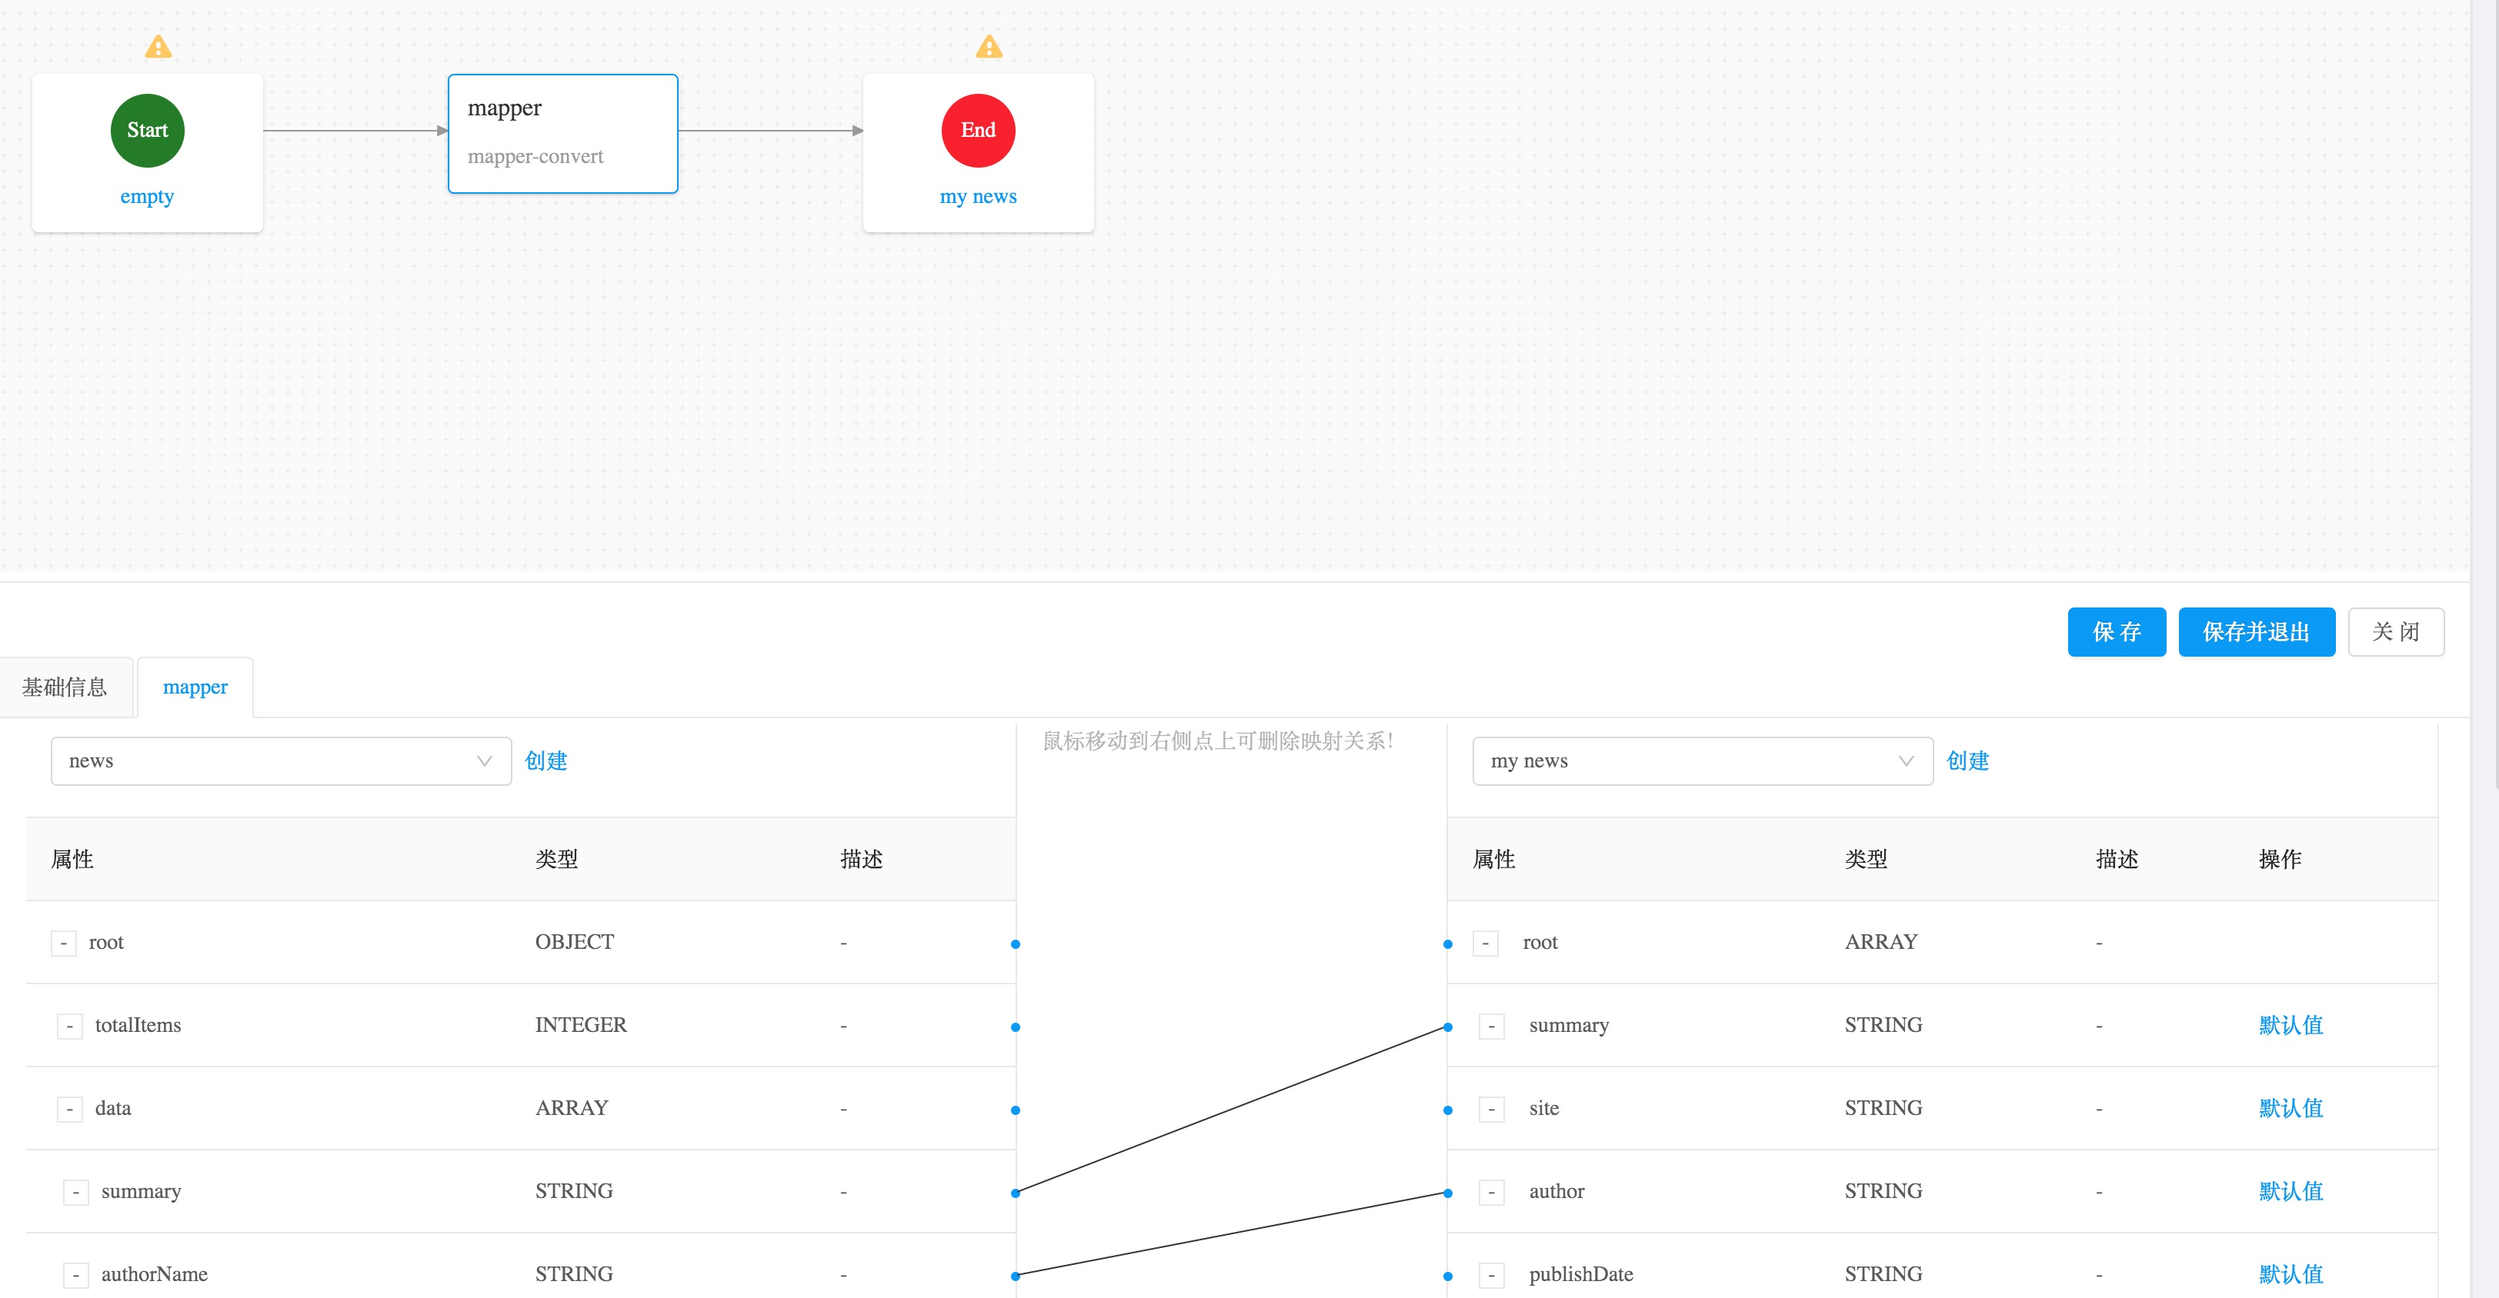
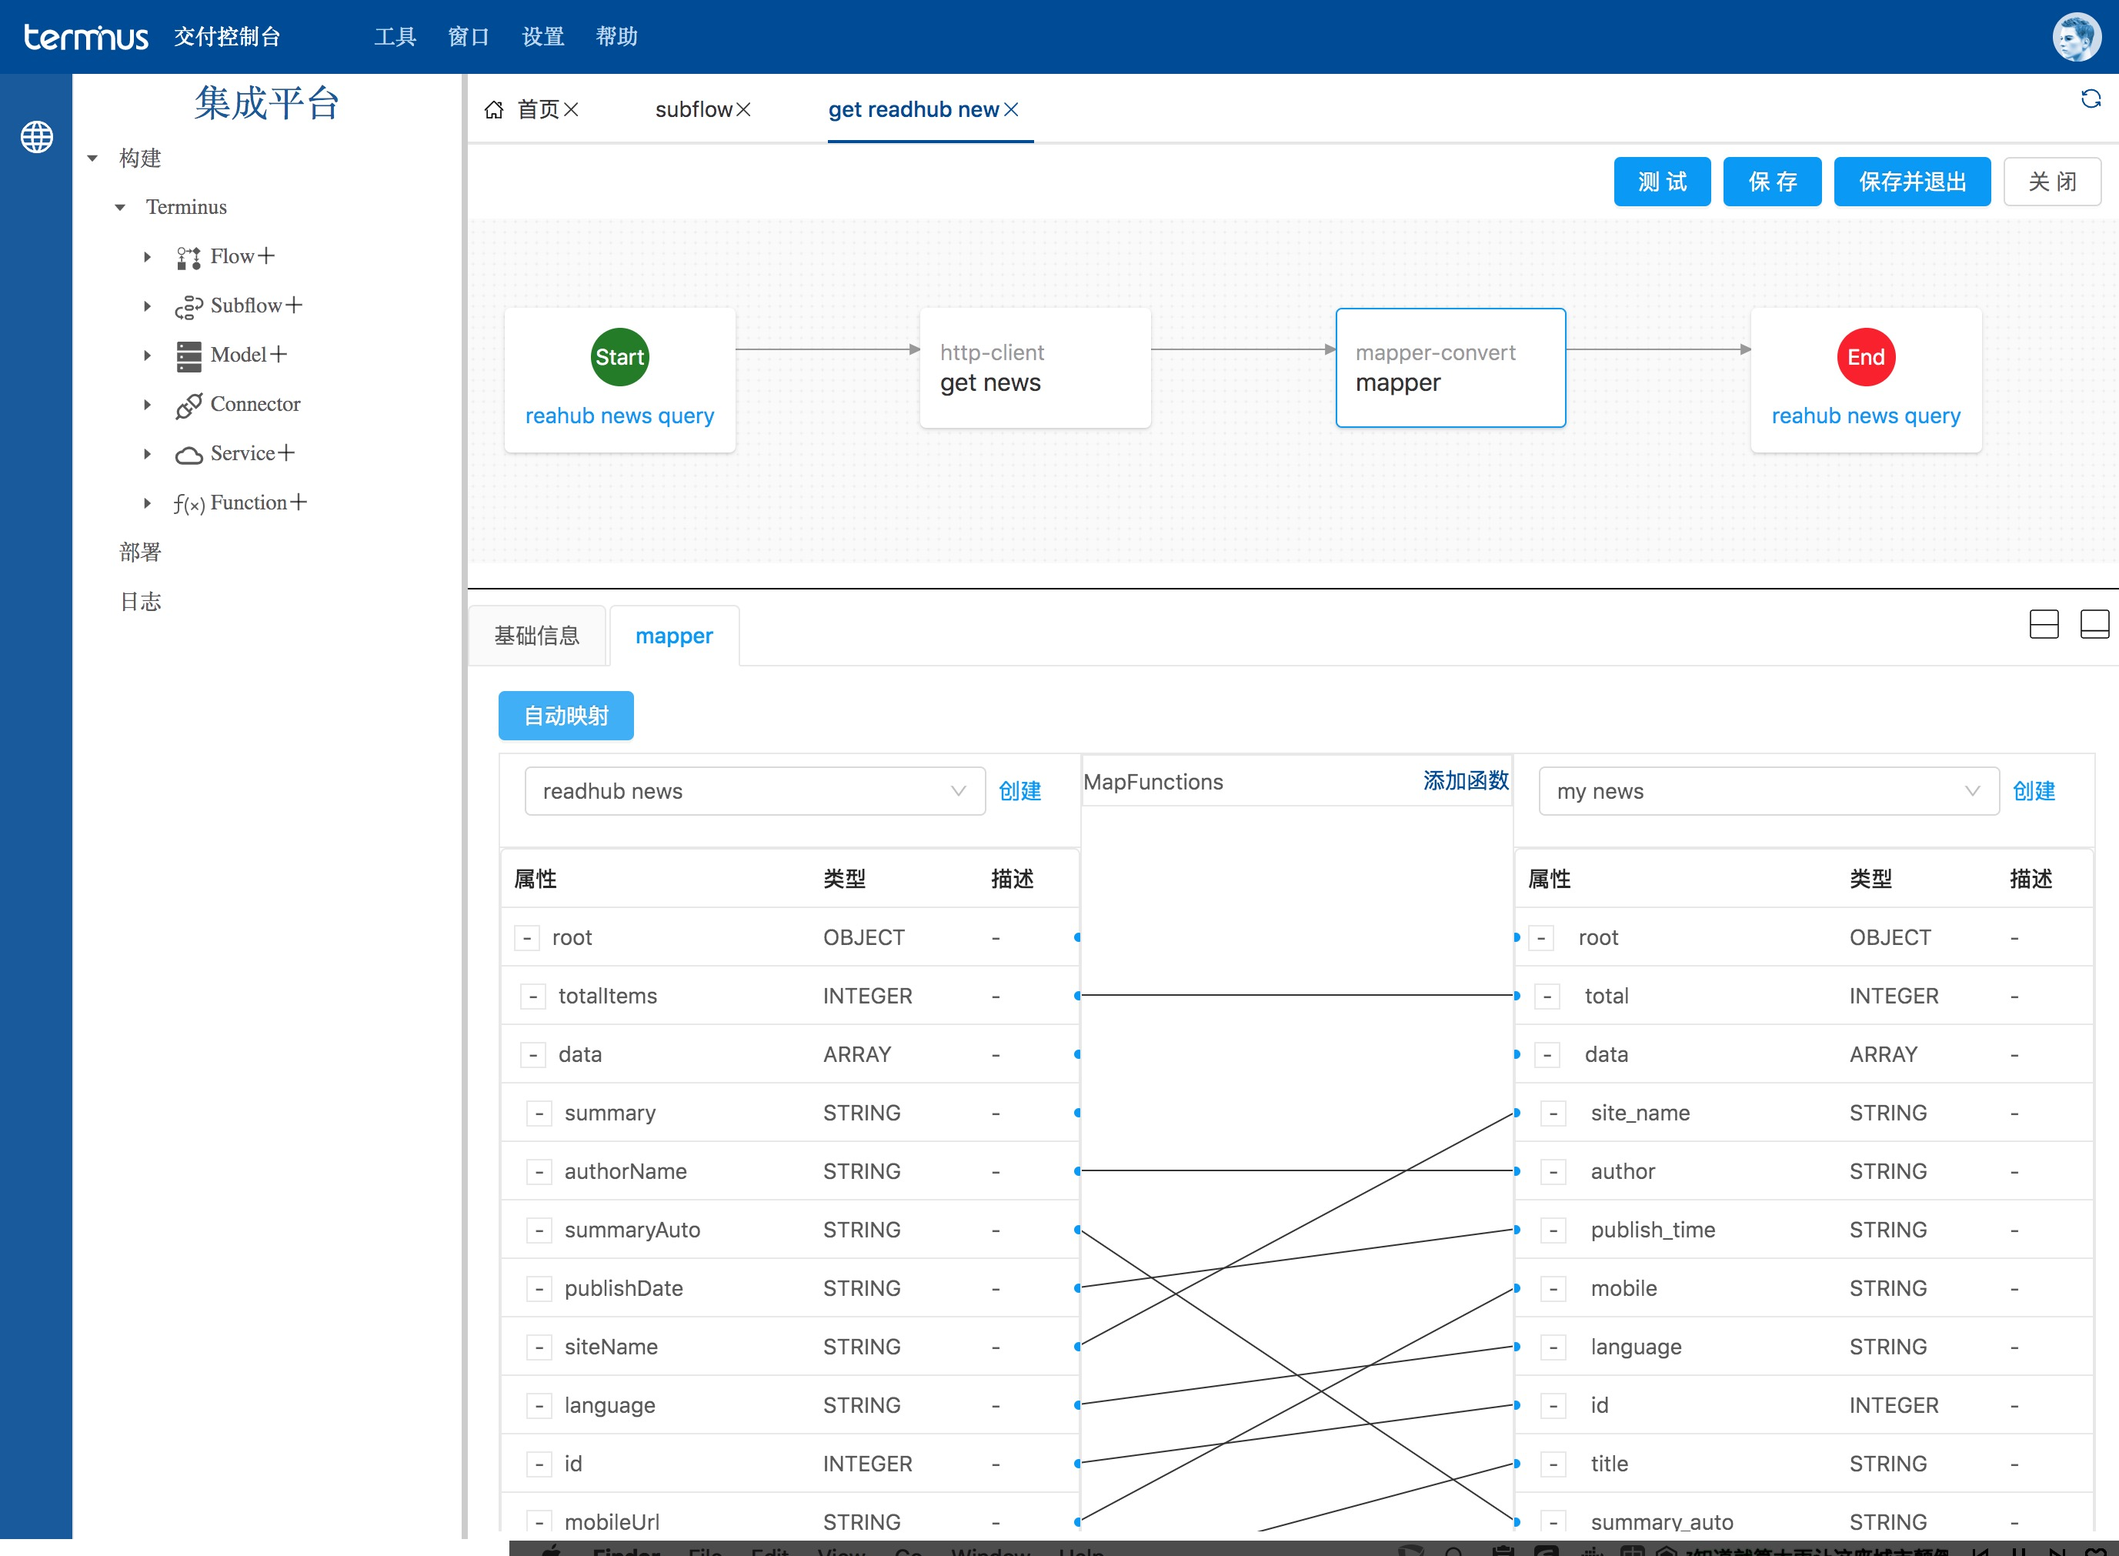
update docs & add validate

diff --git a/console/src/main/java/io/terminus/dalaran/console/TestFlowInitializer.java b/console/src/main/java/io/terminus/dalaran/console/TestFlowInitializer.java
@@ -54,13 +54,23 @@ public class TestFlowInitializer {
         timer.schedule(new TimerTask() {
             @Override
             public void run() {
+                List<FunctionEntity> functions = resourceLoader.loadAllFunctions();
+                for (FunctionEntity function : functions) {
+                    dalaranContext.getDalaranFunctionContext().addCustomFunction(function.getId(), function.getType(),
+                            function.getScript(), function.getParams());
+                }
                 List<TriggerFlowEntity> triggerFlows = resourceLoader.loadAllTriggerFlow();
                 for (TriggerFlowEntity triggerFlowEntity : triggerFlows) {
                     // warning 的也可以加载
                     if (triggerFlowEntity.getStatus() != FlowStatus.Error) {
-                        BasicFlow testFlow = resourceBuilder.buildTriggerFlow(triggerFlowEntity);
-                        dalaranContext.addTestFlow(testFlow);
-                        log.info("load test flow {}", testFlow.getId());
+                        try {
+                            BasicFlow testFlow = resourceBuilder.buildTriggerFlow(triggerFlowEntity);
+                            dalaranContext.addTestFlow(testFlow);
+                            log.info("load test flow [{}]", testFlow.getId());
+                        } catch (Throwable e) {
+                            e.printStackTrace();
+                            log.error("load test flow [{}] error", triggerFlowEntity.getId());
+                        }
                     } else {
                         log.info("can't load test flow [{}], because has error.", triggerFlowEntity.getId());
                     }
@@ -69,17 +79,17 @@ public class TestFlowInitializer {
                 for (SubFlowEntity subFlowEntity : subFlows) {
                     // warning 的也可以加载
                     if (subFlowEntity.getStatus() != FlowStatus.Error) {
-                        SubFlow testFlow = resourceBuilder.buildSubFlow(subFlowEntity);
-                        dalaranContext.addSubFlow(testFlow);
-                        log.info("load test sub-flow {}", testFlow.getId());
+                        try {
+                            SubFlow testFlow = resourceBuilder.buildSubFlow(subFlowEntity);
+                            dalaranContext.addSubFlow(testFlow);
+                            log.info("load sub-flow {}", testFlow.getId());
+                        } catch (Throwable e) {
+                            e.printStackTrace();
+                            log.error("load sub flow [{}] error", subFlowEntity.getId());
+                        }
                     } else {
                         log.info("can't load test sub-flow [{}], because has error.", subFlowEntity.getId());
                     }
-                }
-                List<FunctionEntity> functions = resourceLoader.loadAllFunctions();
-                for (FunctionEntity function : functions) {
-                    dalaranContext.getDalaranFunctionContext().addCustomFunction(function.getId(), function.getType(),
-                            function.getScript(), function.getParams());
                 }
             }
         }, 10 * 1000L);

diff --git a/core/src/main/java/io/terminus/dalaran/core/flow/DefaultCamelFlowBuilder.java b/core/src/main/java/io/terminus/dalaran/core/flow/DefaultCamelFlowBuilder.java
@@ -87,9 +87,19 @@ public class DefaultCamelFlowBuilder implements DalaranFlowBuilder<DalaranRoute>
     public DalaranRoute buildSubFLow(SubFlow flow) {
         val flowTracer = DalaranTracer.buildSubFlowTracer(traceLogger, flow.getId());
         val route = createRouteDefinition(flow);
-        flowTracer.before(route, flow.getInModel().getModelType());
+        if (flow.getInModel() == null) {
+            flowTracer.before(route);
+        } else {
+            flowTracer.before(route, flow.getInModel().getModelType());
+        }
+
         buildFlowRoute(route, flow, null);
-        flowTracer.after(route, flow.getOutModel().getModelType());
+
+        if (flow.getOutModel() == null) {
+            flowTracer.after(route);
+        } else {
+            flowTracer.after(route, flow.getOutModel().getModelType());
+        }
         return route;
     }
 
@@ -107,6 +117,11 @@ public class DefaultCamelFlowBuilder implements DalaranFlowBuilder<DalaranRoute>
         route.setId(TEST_FLOW_PREFIX + flow.getRouteId());
         route.from(DalaranConstants.TEST_FLOW_DIRECT_PREFIX + flow.getRouteId());
         flowTracer.before(route, flow.getInModel().getModelType());
+        if (flow.getInModel() == null) {
+            flowTracer.before(route);
+        } else {
+            flowTracer.before(route, flow.getInModel().getModelType());
+        }
 
         // TODO 测试的输入一定是序列化的, XML/Json 等都是直接扔进去, 如果入参是 Object, 前端引导输入 Json 做反序列化处理吧
 //        if (!flow.getInModel().getModelType().isSerialized()) {
@@ -123,7 +138,12 @@ public class DefaultCamelFlowBuilder implements DalaranFlowBuilder<DalaranRoute>
 
         buildFlowRoute(route, flow, true);
 
-        flowTracer.after(route, flow.getOutModel().getModelType());
+        if (flow.getOutModel() == null) {
+            flowTracer.after(route);
+        } else {
+            flowTracer.after(route, flow.getOutModel().getModelType());
+        }
+
         return route;
     }
 
@@ -210,6 +230,8 @@ public class DefaultCamelFlowBuilder implements DalaranFlowBuilder<DalaranRoute>
         // TODO in model maybe null
         if (currentBodyIsSerialized == null && currentModel != null) {
             currentBodyIsSerialized = currentModel.getModelType().isSerialized();
+        } else {
+            currentBodyIsSerialized = true;
         }
         ProcessorInfo currentProcessorInfo = null;
         for (ProcessorModel processor : processorList) {

diff --git a/components/src/main/java/io/terminus/dalaran/component/processor/route/DalaranRouter.java b/components/src/main/java/io/terminus/dalaran/component/processor/route/DalaranRouter.java
@@ -1,6 +1,7 @@
 package io.terminus.dalaran.component.processor.route;
 
 import io.terminus.dalaran.core.component.BodySerializeType;
+import io.terminus.dalaran.core.component.DalaranComponentValidator;
 import io.terminus.dalaran.core.component.DalaranProcessor;
 import io.terminus.dalaran.core.component.DalaranProcessorConfigCustomConverter;
 import io.terminus.dalaran.core.component.annotation.Processor;
@@ -10,8 +11,7 @@ import io.terminus.dalaran.core.resource.entity.common.ProcessorEntity;
 import io.terminus.dalaran.model.MessageModel;
 import io.terminus.dalaran.model.component.ComponentModel;
 import io.terminus.dalaran.model.component.ProcessorModel;
-import io.terminus.dalaran.model.flow.BasicFlow;
-import io.terminus.dalaran.model.flow.FlowFragment;
+import io.terminus.dalaran.model.flow.*;
 import lombok.val;
 import org.apache.camel.model.ChoiceDefinition;
 import org.apache.camel.model.ProcessorDefinition;
@@ -65,6 +65,11 @@ public class DalaranRouter implements DalaranProcessor<Map<String, String>>, Dal
 
         for (int i = 0; i < routes.size(); i++) {
             val route = routes.get(i);
+
+            if (route.getPipeline().isEmpty()) {
+                continue;
+            }
+
             FlowFragment fragment = new FlowFragment();
 
             MessageModel fragmentLastOutModel = config.getInModel();
@@ -87,4 +92,5 @@ public class DalaranRouter implements DalaranProcessor<Map<String, String>>, Dal
         }
         return routeMapper;
     }
+
 }

diff --git a/core/src/main/java/io/terminus/dalaran/core/resource/DefaultDalaranResourceBuilder.java b/core/src/main/java/io/terminus/dalaran/core/resource/DefaultDalaranResourceBuilder.java
@@ -59,6 +59,7 @@ public class DefaultDalaranResourceBuilder implements DalaranResourceBuilder {
 
     @Override
     public TriggerFlow buildTriggerFlow(TriggerFlowAbstractEntity triggerFlowEntity) {
+
         TriggerFlow flow = new TriggerFlow();
         TriggerInfo triggerInfo = componentContext.getTriggerInfo(triggerFlowEntity.getTriggerType());
         buildFlow(flow, triggerFlowEntity);
@@ -113,6 +114,10 @@ public class DefaultDalaranResourceBuilder implements DalaranResourceBuilder {
     @Override
     public Object buildConnectorConfig(Long connectorId, Class connectorConfigType) {
         ConnectorAbstractEntity entity = resourceLoader.loadConnector(connectorId);
+        if (entity == null) {
+            // TODO throw ConnectorNotFound
+            throw new RuntimeException("connector [" + connectorId + "] not found");
+        }
         return buildConfig(entity.getConfig(), connectorConfigType);
     }
 

diff --git a/core/src/main/java/io/terminus/dalaran/core/log/DalaranTracer.java b/core/src/main/java/io/terminus/dalaran/core/log/DalaranTracer.java
@@ -12,6 +12,8 @@ import org.apache.camel.model.RouteDefinition;
 import java.io.Serializable;
 import java.util.Map;
 
+import static io.terminus.dalaran.model.BodyType.UNKNOWN;
+
 /**
  * 尝试过 InterceptStrategy 和 TraceEventHandler, 最后决定自己写前后 processor 处理
  * 主要 CamelInternalProcessorAdvice 没有可用入口, 否则直接使用也是比较合适的
@@ -58,8 +60,17 @@ public class DalaranTracer {
         route.process(this.buildBeforeProcessor(modelType));
     }
 
+    public void before(RouteDefinition route) {
+        route.process(this.buildBeforeProcessor(UNKNOWN));
+    }
+
     public void after(RouteDefinition route, BodyType modelType) {
         route.process(this.buildAfterProcessor(modelType));
+    }
+
+
+    public void after(RouteDefinition route) {
+        route.process(this.buildAfterProcessor(UNKNOWN));
     }
 
     // TODO async

diff --git a/common/src/main/java/io/terminus/dalaran/model/BodyType.java b/common/src/main/java/io/terminus/dalaran/model/BodyType.java
@@ -9,7 +9,8 @@ public enum BodyType {
     XML(true),
     OBJECT(false),
     SOAP(true),
-    EXCEPTION(false);
+    EXCEPTION(false),
+    UNKNOWN(false);
 
     private boolean serialized;
 

diff --git a/docs/overview.md b/docs/overview.md
@@ -6,10 +6,19 @@
 * Trigger (触发器): 提供触发集成的服务, 一切集成流程的起点, 如监听 Http 请求, 定时触发, 消费消息等, 详见 触发器章节.
 * Processor (处理器): 具体执行集成的逻辑动作, 如参数转换, Rest 调用, 读取数据等等, 详见 处理器章节.
 * Model (模型): 描述了消息的结构化模型, 数据映射转换也是基于模型处理. 如果有 MDD 开发框架或平台, 可以考虑直接拉取过来, 详见模型章节.
+
+## 高级概念
 * Connector (连接器): 抽象节点的配置内容, 维护可复用的节点配置, 减少整体配置量.
 * Service (服务): 根据接口说明文档导入的一组接口信息, 自动导入相关配置以及模型, 减少了大量的配置.
+* 子流程 (SubFlow): 可复用的逻辑流程, 跟`集成流`一样, 具有出入参和执行逻辑, 但是没有触发器配置. 其触发方式为 `集成流` 增加 `子流程` 节点触发.
+* 映射函数 (MappingFunction): 允许映射中自定义函数, 用来处理复杂的模型转换映射的支持, 详见 `数据映射` 章节
+* 应用管理 (Application): 为对外开放 OpenAPI 提供了接入方管理, 即接入方的 AppKey 和 AppSecret 等信息的管理, 可配合具体触发器, 对接入请求进行校验和签名验证.
 
-### 概念说明
+## 业务架构图
+
+![](./images/architecture.png)
+
+## 概念说明
 
 #### 核心概念
 
@@ -65,6 +74,15 @@
 
 对于这种集成平台提供了 `服务 (Service)` 的概念, 只需要上传 Swagger 或者 WSDL 这种接口说明文档, 就可以快速选择其相关接口, 不需要再维护相关配置.
 
+#### 子流程 (SubFLow)
+
+在一些比较复杂的集成场景, 我们可能会有重复的逻辑, 需要在每个集成流中配置, 如此一来重复工作量就难以避免. 
+
+子流程就是为了抽象重复逻辑, 可以认为是我们写代码的一个独立方法, 会在主方法或者循环中调用.
+
+或者以此来实现一些复杂场景, 例如: 定时拉取数据, 无数据时等待下次执行, 有数据时再次执行, 直到没有数据. 
+
+以上述例, 我们可以配置一个子流程, 子流程内配置 `获取数据 -> 路由节点判断是否有数据, 没有则直接返回, 有则继续 -> 执行保存数据 -> 子流程调用自身`. 如此一来, 我们就通过子流程配置了一个递归执行.
 
 
 

diff --git a/docs/user/quick-start.md b/docs/user/quick-start.md
@@ -73,11 +73,23 @@
 ![add-processor](../images/add-processor.jpg)
 ![add-mapper](../images/add-mapper.jpg)
 
-确认后, 图上会增加一个 mapper 节点, 点击后下放会出现 Mapper 的配置, 就是一个连线映射, 只需要将左边的字段连线到右边的目标字段即可. 如果有数组之类的, 左右两边会要求有相同层级的数组, 因为需要循环完成创建赋值, 如果不同层级就会牵扯到 flat 或者 merge 等, 所以不支持.
+确认后, 图上会增加一个 mapper 节点, 点击后下放会出现 Mapper 的配置, 就是一个连线映射, 只需要将左边的字段连线到右边的目标字段即可. 
+
+如果字段相似度较高, 可以点击自动映射, 会根据字段相似度, 全层级的自动关联, 下图就是直接点击自动映射的结果.
+
+如果有数组之类的, 左右两边会要求有相同层级的数组, 因为需要循环完成创建赋值, 如果不同层级就会牵扯到 flat 或者 merge 等, 所以不支持.
 
 ![config-mapper](../images/config-mapper.jpg)
 
-连线完成后, Mapper 节点就配置完成了.
+连线完成后, Mapper 节点就配置完成了. 当简单的赋值映射不能支撑我们的场景时, 我们可以使用映射函数来完成. 只需要增加函数, 将出入参连接即可. 
+
+![add-http-client](../images/mapper-function.jpg)
+
+函数拥有两种, 一种是平台提供的标准函数, 比如字符串操作, 数字操作等;
+
+另外一种是自定义函数, 允许用户自行维护, 只需要描述入参, 并且填入实现即可. 当前支持 `JavaScript` 和 `Groovy`.
+
+![add-http-client](../images/create-mapping-function.jpg)
 
 ### 4. 创建 Client 节点访问三方接口
 
